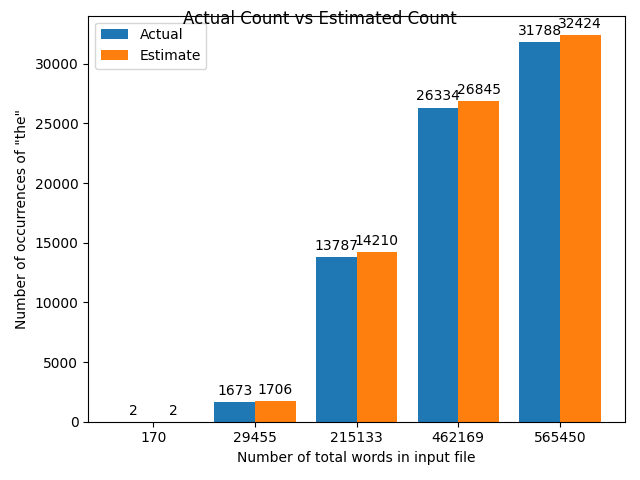
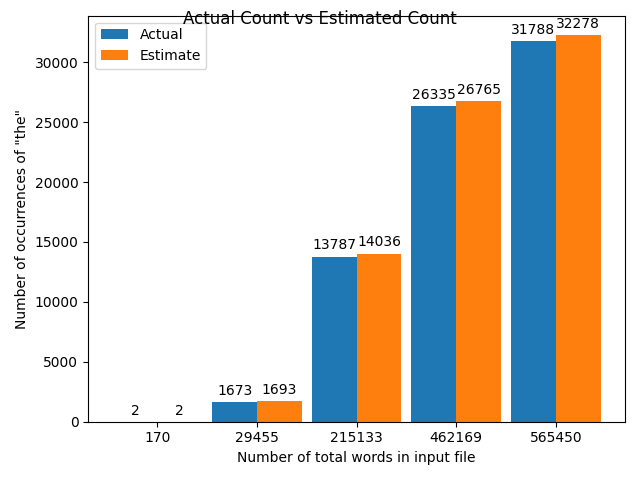
formatted the graphs better

diff --git a/driver.py b/driver.py
@@ -13,7 +13,6 @@ returns
 def insertCMS(num_hash, buckets, filepath):
     file = open(filepath, "r")
     start = timer()
-
     cms = CountMinSketch(num_hash, buckets)
 
     for line in file:
@@ -111,12 +110,13 @@ if __name__ == '__main__':
             cms_search_times.append(cms_search_time)
             ht_search_times.append(ht_search_time)
 
-            # print("{} has {} distinct words".format(filename, ht.size()))
-            # print("     (HT) actual count \"the\": {}".format(ht_count))
-            # print("     (CMS) estimated count \"the\": {}".format(cms_count))
+            print("{} has {} distinct words".format(filename, ht.size()))
+            print("     (HT) actual count \"the\": {}".format(ht_count))
+            print("     (CMS) estimated count \"the\": {}".format(cms_count))
             actual_counts_sub.append(ht_count)
             estimate_counts_sub.append(cms_count)
 
+        # Build line graph for time comparisons
         iplot.plot(filewordcounts, ht_init_times, 'bo', filewordcounts, ht_init_times, 'b--')
         iplot.plot(filewordcounts, cms_init_times, 'rs', filewordcounts, cms_init_times, 'r--')
 
@@ -126,24 +126,25 @@ if __name__ == '__main__':
         actual_counts = actual_counts_sub
         estimate_counts = estimate_counts_sub
 
-    # Build line graph for time comparisons
+    # Set information for line graph
     iplot.set_ylabel('Insertion Time (seconds)')
     splot.set_ylabel('Search Time (seconds)')
     splot.set_xlabel('Number of Words Inserted')
+    fig1.suptitle('CMS vs HashTable Time')
     
-    # Legend
+    # Set up legend for line graph
     red_patch = mpatches.Patch(color='red', label='Count-Min Sketch')
     blue_patch = mpatches.Patch(color='blue', label='Hash Table')
     iplot.legend(handles=[red_patch, blue_patch])
     splot.legend(handles=[red_patch, blue_patch])
     
-    fig1.suptitle('CMS vs HashTable Time')
-    fig1.savefig('cms_ht_time.png', bbox_inches='tight')
+    fig1.tight_layout()
+    fig1.savefig('cms_ht_time.png')
 
 
     # Build bar graph for actual vs est comparisons
     x = np.arange(len(filenames))  # the label locations
-    width = 0.4  # width of the bars
+    width = 0.45  # width of the bars
 
     fig2, ax = plt.subplots()
     rects1 = ax.bar(x - width/2, actual_counts, width, label='Actual')
